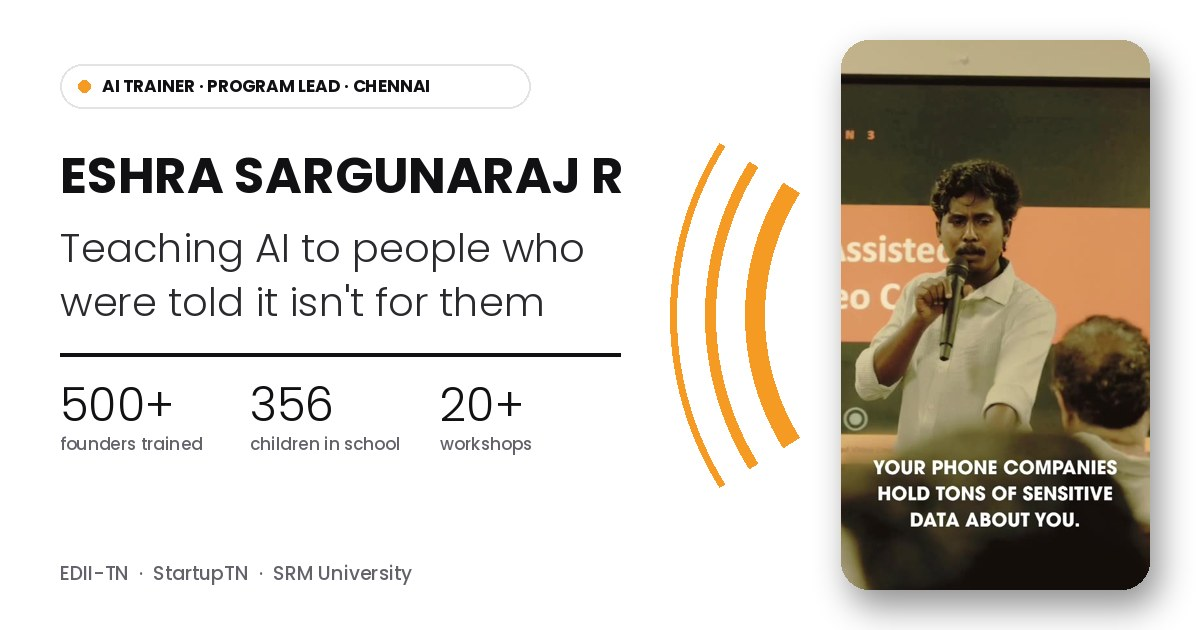
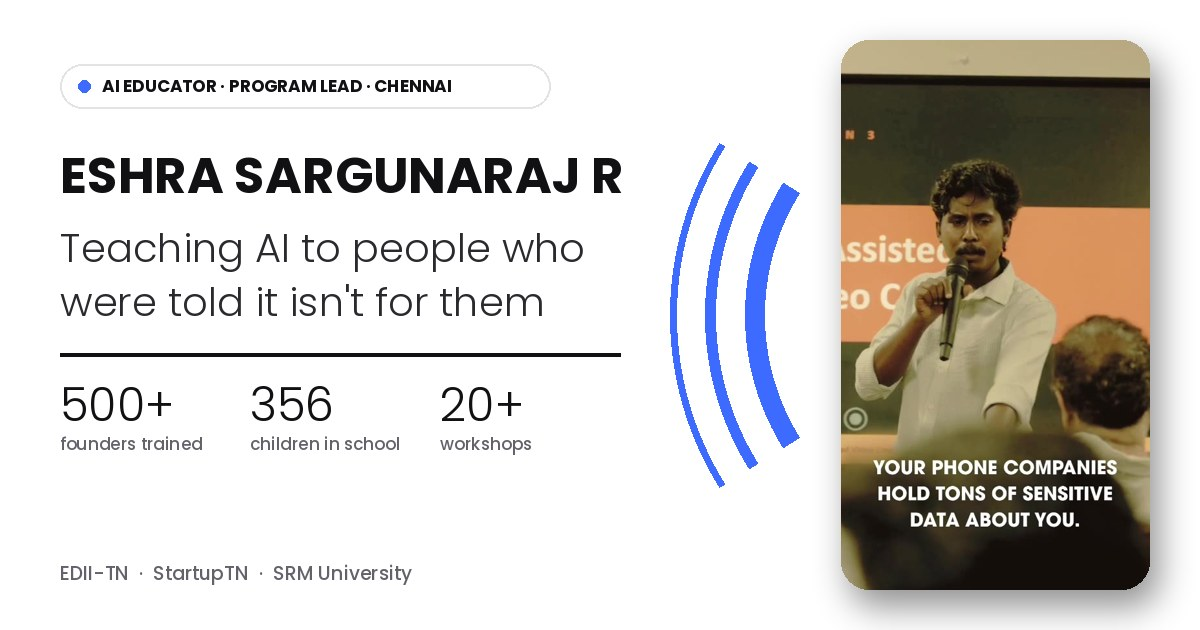
Title: AI Educator & AI Skilling Program Lead
Claude-Session: https://claude.ai/code/session_01QEdjTf4p9Rj5TPpDumkAxi

Changed region(s): [[0.555, 0.2111, 0.6783, 0.7841], [0.0617, 0.1206, 0.37, 0.1508], [0.4317, 0.1508, 0.4625, 0.181]]

diff --git a/index.html b/index.html
@@ -4,9 +4,9 @@
 <meta charset="utf-8">
 <meta name="viewport" content="width=device-width, initial-scale=1, viewport-fit=cover">
 <title>Eshra Sargunaraj R</title>
-<meta name="description" content="AI Trainer & AI Skilling Program Lead, Chennai. 500+ founders trained in AI through EDII-TN and StartupTN; 356 migrant children enrolled in school.">
+<meta name="description" content="AI Educator & AI Skilling Program Lead, Chennai. 500+ founders trained in AI through EDII-TN and StartupTN; 356 migrant children enrolled in school.">
 <meta property="og:type" content="website">
-<meta property="og:title" content="Eshra Sargunaraj R · AI Trainer & AI Skilling Program Lead">
+<meta property="og:title" content="Eshra Sargunaraj R · AI Educator & AI Skilling Program Lead">
 <meta property="og:description" content="Teaching AI to people who were told it isn't for them. 500+ founders trained through EDII-TN and StartupTN.">
 <meta property="og:url" content="https://eshrasargunaraj.vercel.app/">
 <meta property="og:image" content="https://eshrasargunaraj.vercel.app/og.jpg">
@@ -515,7 +515,7 @@ i.s,em.s,.s{font-family:var(--serif);font-style:italic;font-weight:500;letter-sp
   <canvas id="sig" aria-hidden="true"></canvas>
   <div class="in hgrid">
     <div class="hmain">
-      <p class="role-line"><span></span>AI Trainer &amp; AI Skilling Program Lead<em class="rl-city"> · Chennai</em></p>
+      <p class="role-line"><span></span>AI Educator &amp; AI Skilling Program Lead<em class="rl-city"> · Chennai</em></p>
       <p class="wordmark">Eshra Sargunaraj R</p>
       <h1>Teaching <i class="s">AI</i> to people who were told it <i class="s">isn't for them</i></h1>
       <p class="para">I help entrepreneurs, teachers, homemakers, students and migrant families become confident, critical users of AI.</p>
